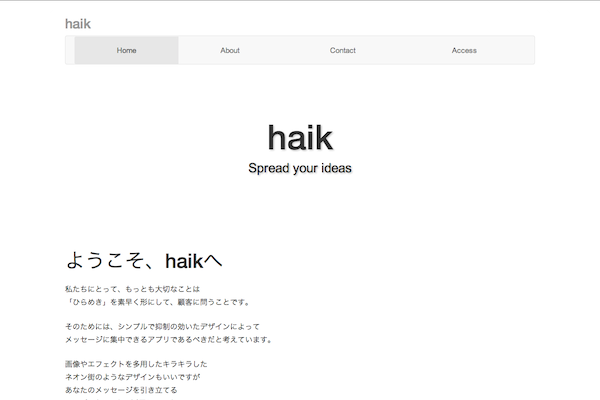
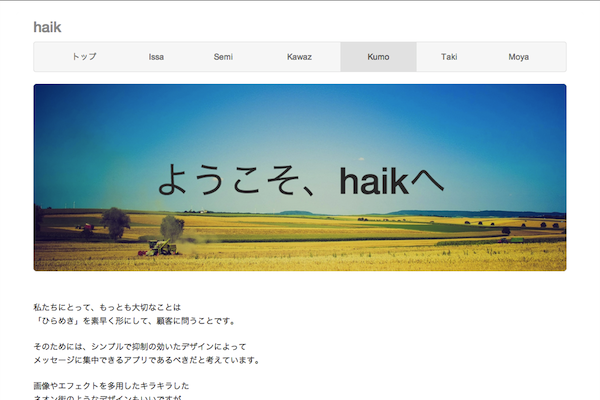
fitレイアウトの追加

diff --git a/css/docs.css b/css/docs.css
@@ -18,6 +18,11 @@ body {
 	margin: 30px 0;
 }
 
+#orgm_container.haik-fullpage {
+	padding-left:0;
+	padding-right:0;
+}
+
 /* navi */
 #logo {
 	padding: 0 0;

diff --git a/fit.skin.php b/fit.skin.php
@@ -1,0 +1,90 @@
+<head prefix="#{$head_prefix}">
+	#{$meta_content_type}
+	<title>#{$page_title}</title>
+	#{$viewport}
+	<meta name="keywords" content="#{$keywords}">
+	<meta name="description" content="#{$description}">
+	<meta name="author" content="">
+	<link rel="alternate" type="application/rss+xml" title="RSS" href="#{$rss_link}">
+
+	#{$bootstrap_css}
+	#{$style_css}
+	
+	#{$head_tag}
+	#{$plugin_head}
+	#{$user_head}
+	
+	#{$tracking_script}
+
+</head>
+
+<body>
+#{$body_first}
+#{$sr_link}
+
+<div id="orgm_container" class="container haik-fullpage">
+	
+	<header>
+		<!-- Navbar
+		================================================== -->
+		<div class="musthead container">
+			<h1 id="logo">#{$logo}</h1>
+			<div id="orgm_navbar" class="navbar navbar-default">
+				<div class="container">
+					<button type="button" class="navbar-toggle" data-toggle="collapse" data-target=".navbar-collapse">
+						<span class="icon-bar"></span>
+						<span class="icon-bar"></span>
+						<span class="icon-bar"></span>
+					</button>
+					<nav class="navbar-collapse collapse">
+						#{$site_navigator}
+					</nav>
+				</div>
+			</div>
+		</div>
+	
+		<!-- EyeCatch
+		================================================== -->
+		<div id="orgm_eyecatch">#{$eyecatch}</div>
+		
+	</header>
+
+	<!-- Body
+	================================================== -->
+	<div id="contents" class="marketing" role="main">
+		#{$body}
+	</div>
+
+	<aside>
+		#{$summary}
+	</aside>
+
+	<hr>
+
+	<!-- Footer
+	================================================== -->
+	<footer class="footer">
+		#{$site_footer}
+	</footer>
+
+</div>
+
+<div id="license">
+	#{$license_tag}
+</div>
+
+#{$admin_nav}
+#{$body_last}
+
+<!-- Script
+================================================== -->
+#{$jquery_script}
+#{$bootstrap_script}
+#{$common_script}
+#{$admin_script}
+
+#{$plugin_script}
+#{$user_script}
+
+</body>
+</html>

diff --git a/config.php b/config.php
@@ -1,7 +1,7 @@
 <?php
 $config = array(
 	'name' => 'kumo',
-	'version' => '1.1.0',
+	'version' => '1.2.0',
 	'thumbnail' => 'img/thumbnail.png',
 	'style_file' => 'css/docs.css',
 	'templates' => array(
@@ -14,6 +14,11 @@ $config = array(
 			'filename' => 'content.skin.php',
 			'layouts' => array('SiteNavigator', 'SiteFooter', 'MenuBar'),
 			'thumbnail' => 'img/thumbnail.content.png',
+		),
+		'fit' => array(
+			'filename' => 'fit.skin.php',
+			'layouts' => array('SiteNavigator', 'SiteFooter', 'MenuBar'),
+			'thumbnail' => 'img/thumbnail.fit.png',
 		),
 	),
 	'default_template' => 'top',
